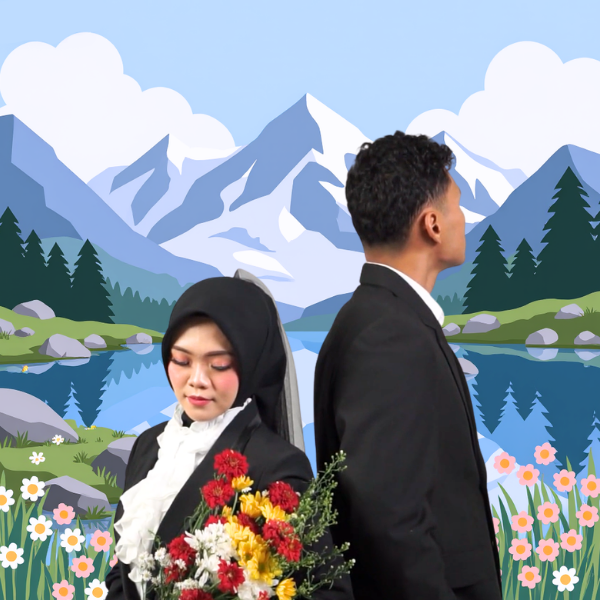
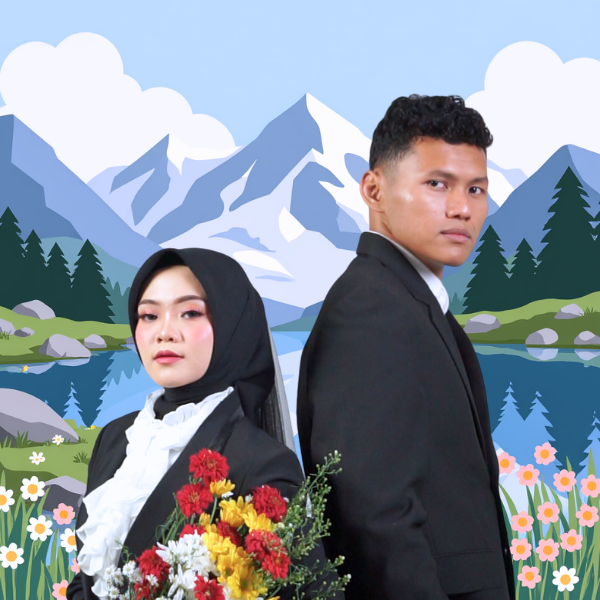
update minor

diff --git a/src/i18n/index.ts b/src/i18n/index.ts
@@ -5,19 +5,19 @@ import * as en from './en';
 import * as id from './id';
 
 i18n
-  .use(initReactI18next) // passes i18n down to react-i18next
-  .init({
-    // the translations
-    // (tip move them in a JSON file and import them,
-    // or even better, manage them via a UI: https://react.i18next.com/guides/multiple-translation-files#manage-your-translations-with-a-management-gui)
-    resources: {
-      en,
-      id,
-    },
-    lng: 'en',
-    fallbackLng: 'en',
+	.use(initReactI18next) // passes i18n down to react-i18next
+	.init({
+		// the translations
+		// (tip move them in a JSON file and import them,
+		// or even better, manage them via a UI: https://react.i18next.com/guides/multiple-translation-files#manage-your-translations-with-a-management-gui)
+		resources: {
+			en,
+			id,
+		},
+		lng: 'en',
+		fallbackLng: 'en',
 
-    interpolation: {
-      escapeValue: false, // react already safes from xss => https://www.i18next.com/translation-function/interpolation#unescape
-    },
-  });
+		interpolation: {
+			escapeValue: false, // react already safes from xss => https://www.i18next.com/translation-function/interpolation#unescape
+		},
+	});

diff --git a/src/i18n/id/login.ts b/src/i18n/id/login.ts
@@ -19,6 +19,5 @@ export const login = {
 	'Invitation Logo': 'Logo Undangan',
 	Info: 'Info',
 	'Select language': 'Pilih bahasa',
-	Footer:
-		'Halaman ini dilindungi dan dibuat dengan ❤ oleh dan untuk Adek & Vivi © 2026',
+	Footer: 'Halaman ini dilindungi dan dibuat dengan ❤ oleh Adek & Vivi © 2026',
 };

diff --git a/src/i18n/en/login.ts b/src/i18n/en/login.ts
@@ -19,6 +19,5 @@ export const login = {
 	'Invitation Logo': 'Invitation Logo',
 	Info: 'Info',
 	'Select language': 'Select language',
-	Footer:
-		'This page is protected and crafted with ❤ by and for Adek & Vivi © 2026',
+	Footer: 'This page is protected and crafted with ❤ by Adek & Vivi © 2026',
 };

diff --git a/src/pages/Login/styles.scss b/src/pages/Login/styles.scss
@@ -13,7 +13,7 @@
 	box-sizing: border-box;
 
 	@media (max-width: 768px) {
-		padding: 20px 20px 110px !important;
+		padding: 40px 30px 110px !important;
 	}
 }
 
